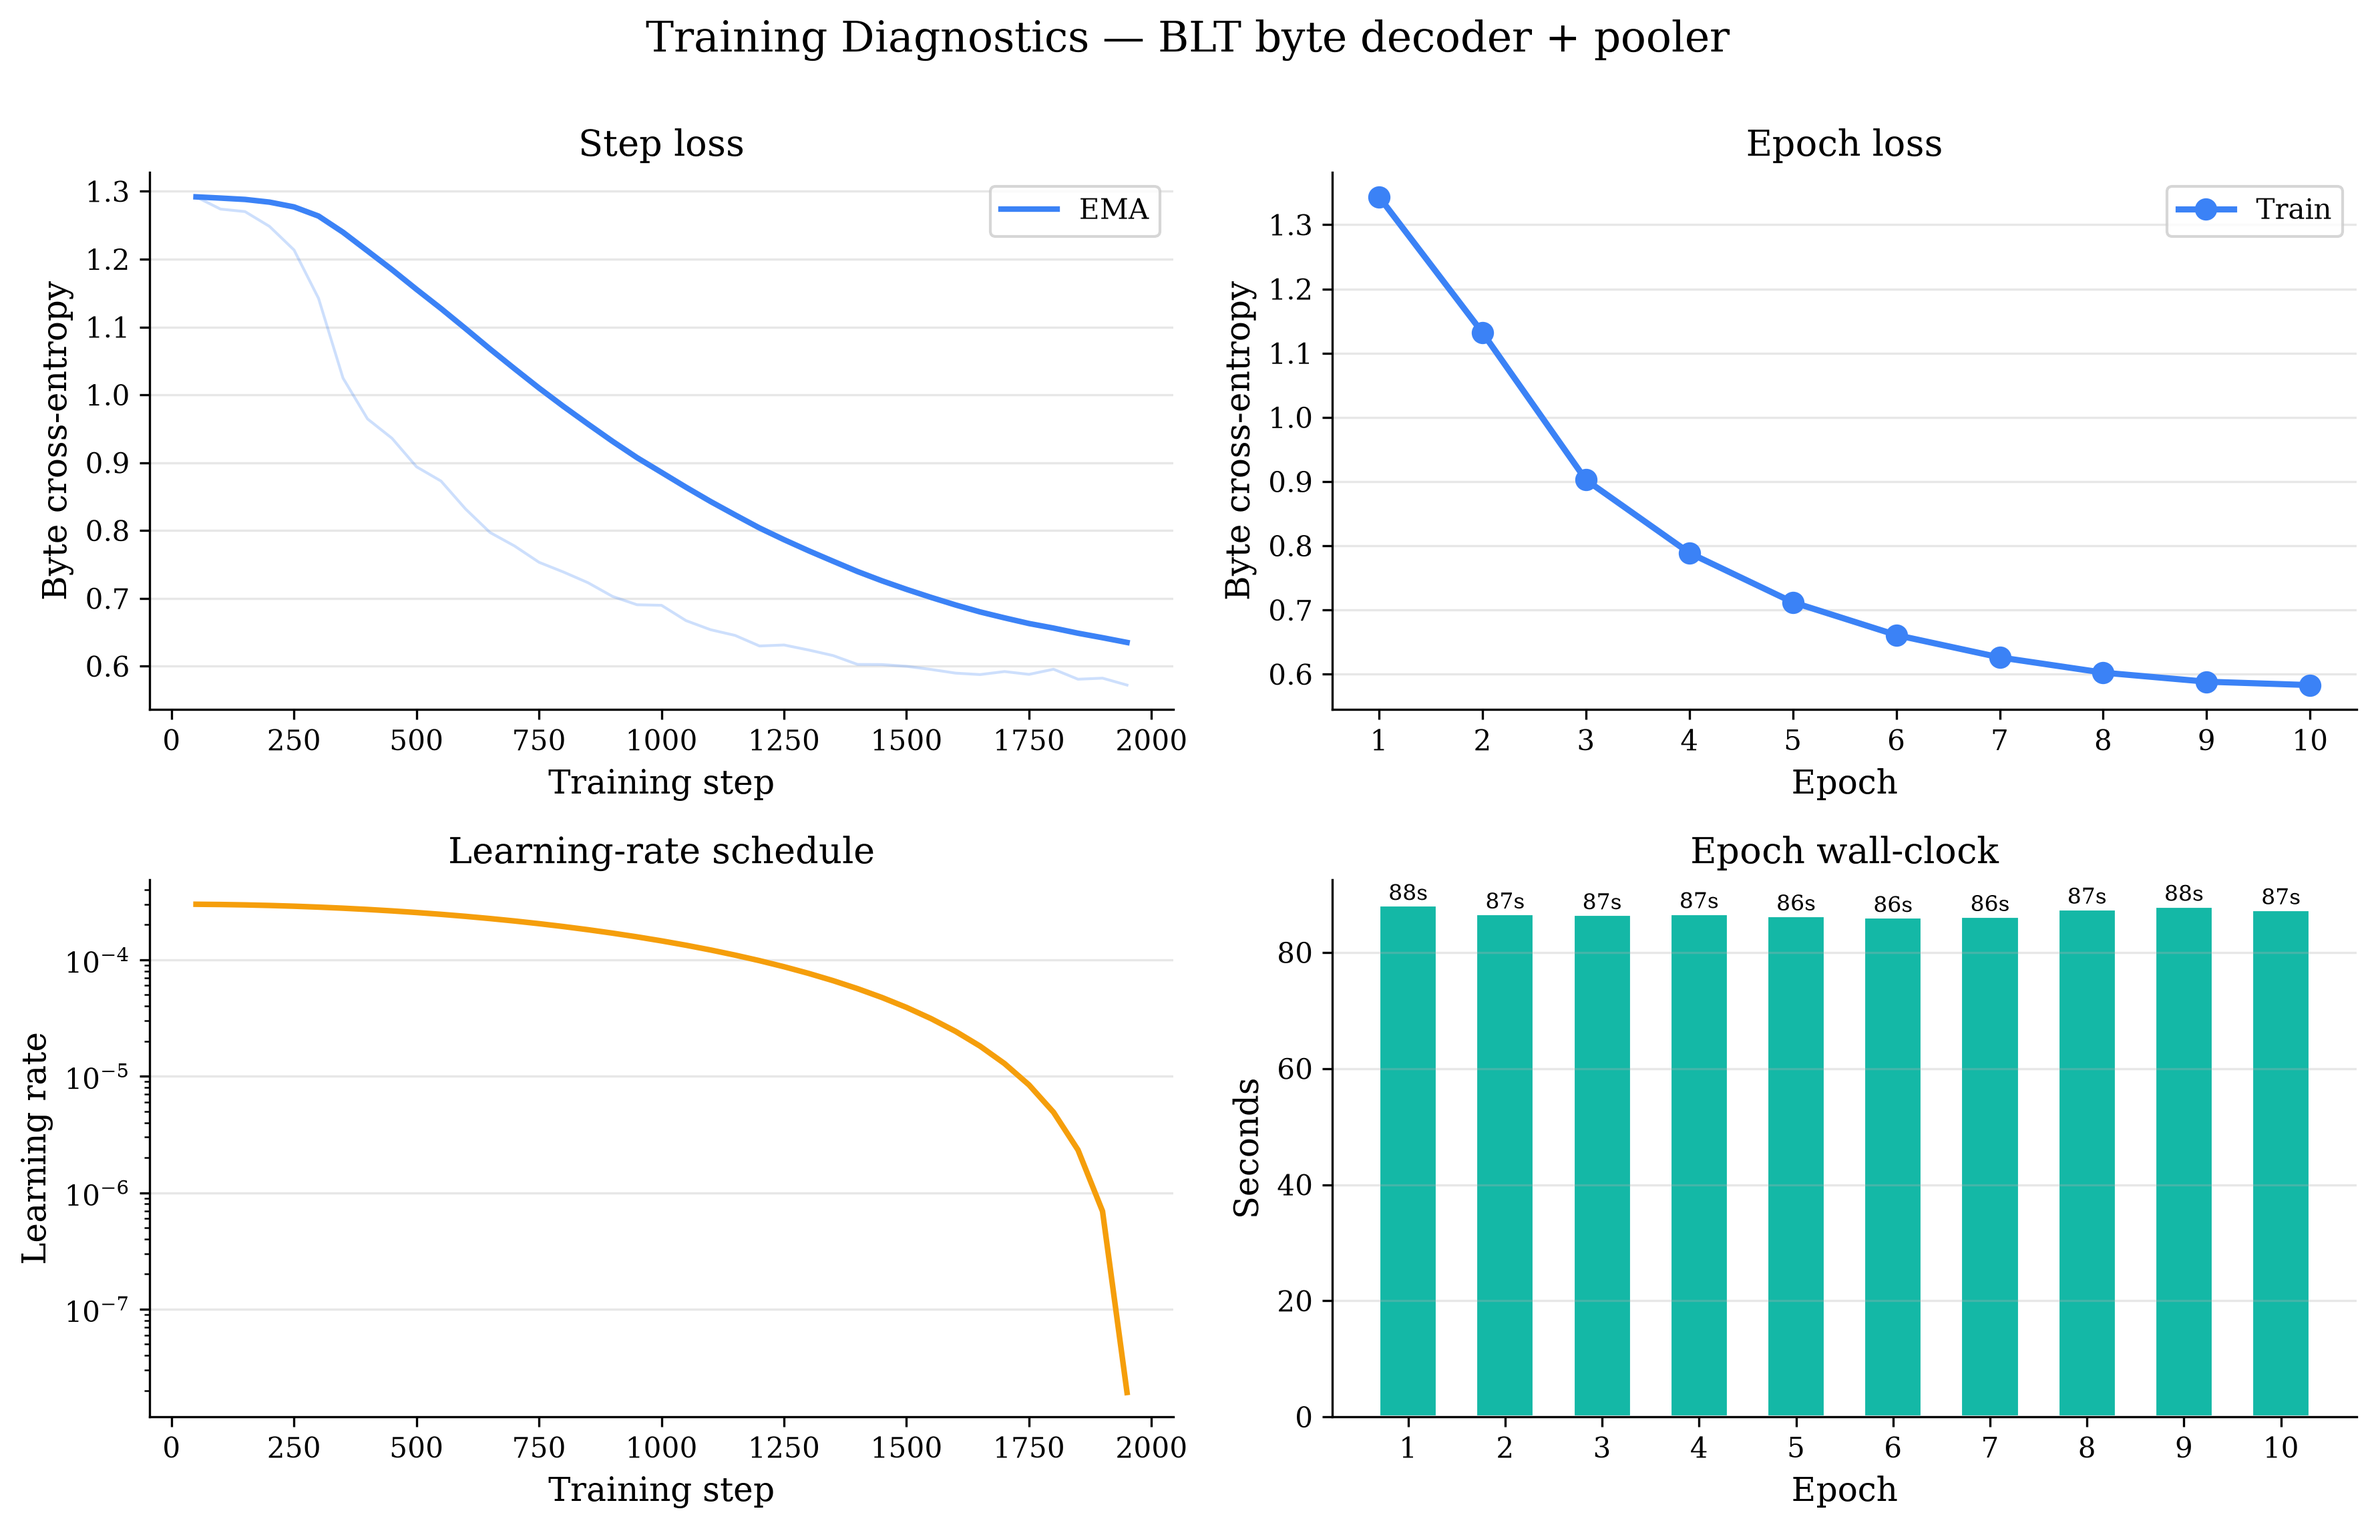
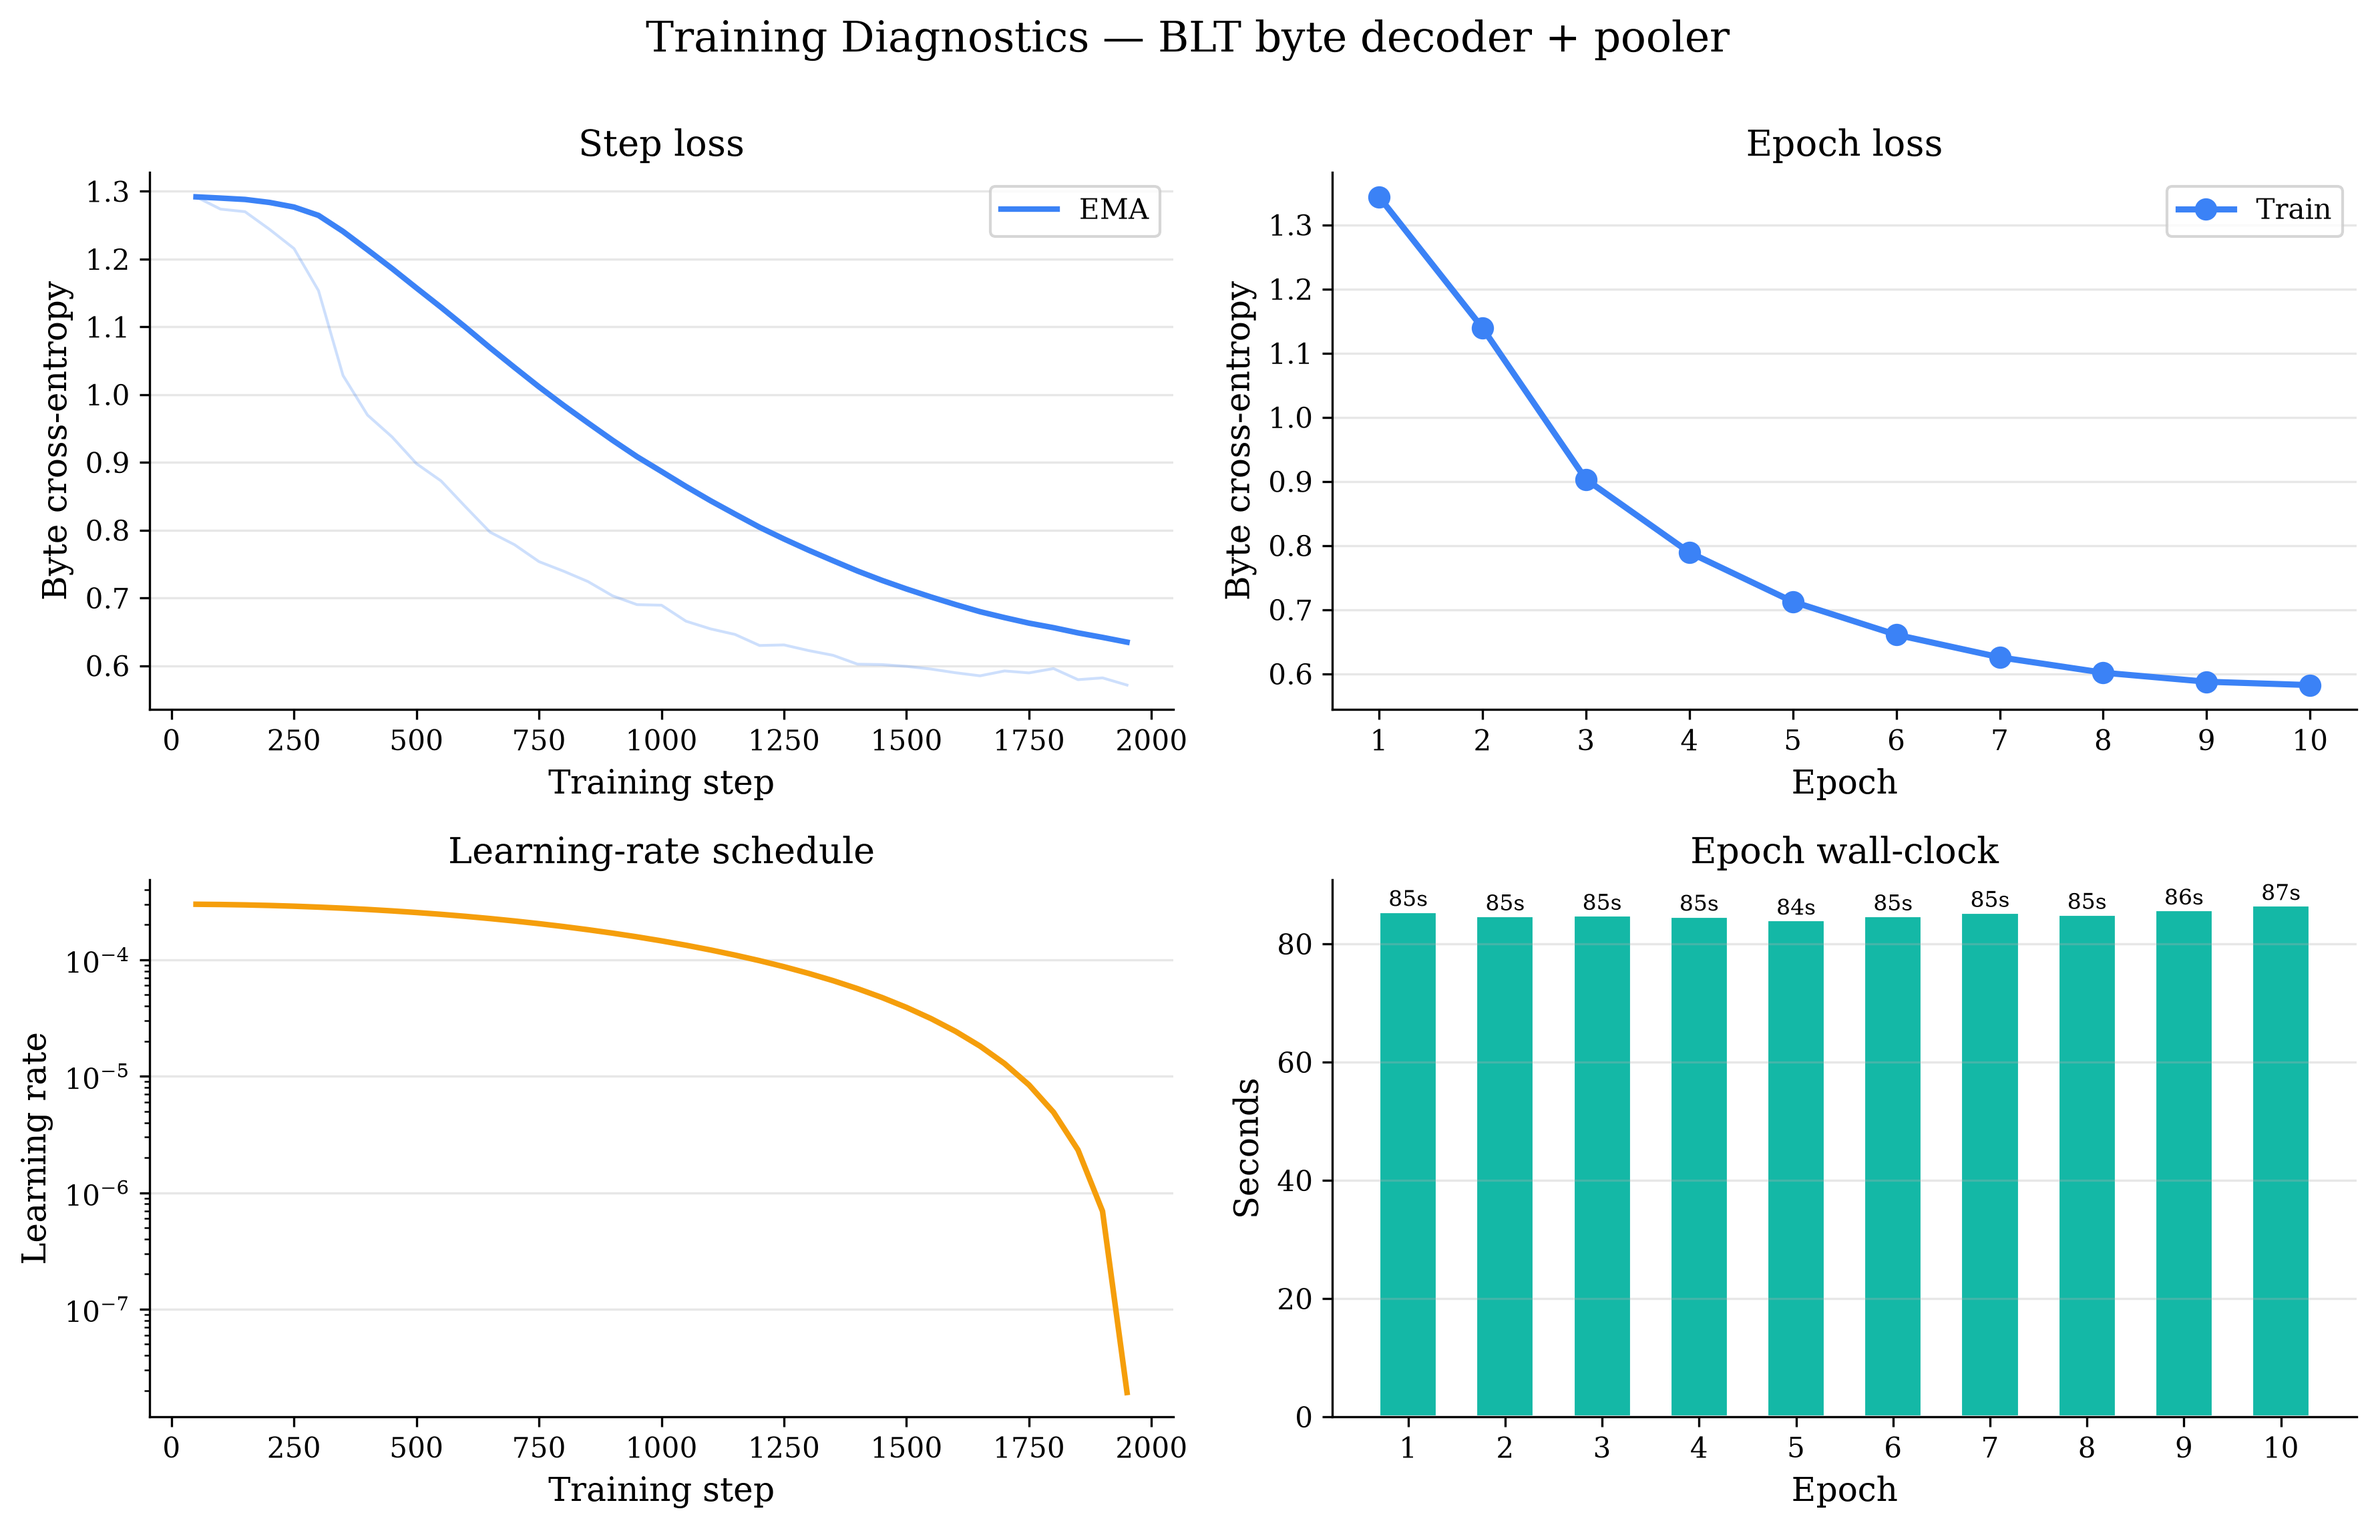
results: blt_decoder (blt_decoder.py)
best_byte_cross_entropy: 0.5825768803455391
best_epoch: 10
epochs_run: 10
byte_perplexity: 1.7906467731019977

diff --git a/results/runs/blt_decoder/README.md b/results/runs/blt_decoder/README.md
@@ -1,19 +1,19 @@
 # blt_decoder
 
 * script: `blt_decoder.py`
-* finished: 2026-08-25T03:39:00Z
-* wall clock: 929.4 s
-* code: `ba3aea5` on `main` (working tree dirty)
+* finished: 2026-08-27T02:59:37Z
+* wall clock: 910.2 s
+* code: `cb1e2c9` on `main` (working tree dirty)
 * device: NVIDIA RTX PRO 6000 Blackwell Server Edition
 
 ## Results
 
 | metric | value |
 | --- | --- |
-| best_byte_cross_entropy | 0.5830785194221808 |
+| best_byte_cross_entropy | 0.5825768803455391 |
 | best_epoch | 10 |
 | epochs_run | 10 |
-| byte_perplexity | 1.7915452568342816 |
+| byte_perplexity | 1.7906467731019977 |
 
 ## Run info
 
@@ -29,7 +29,7 @@
 | min_delta | 0.0 |
 | min_epochs | 1 |
 | epochs_observed | 10 |
-| best | 0.5830785194221808 |
+| best | 0.5825768803455391 |
 | best_epoch | 10 |
 | epochs_since_improvement | 0 |
 | stop_reason | reached the --epochs cap of 10 |
